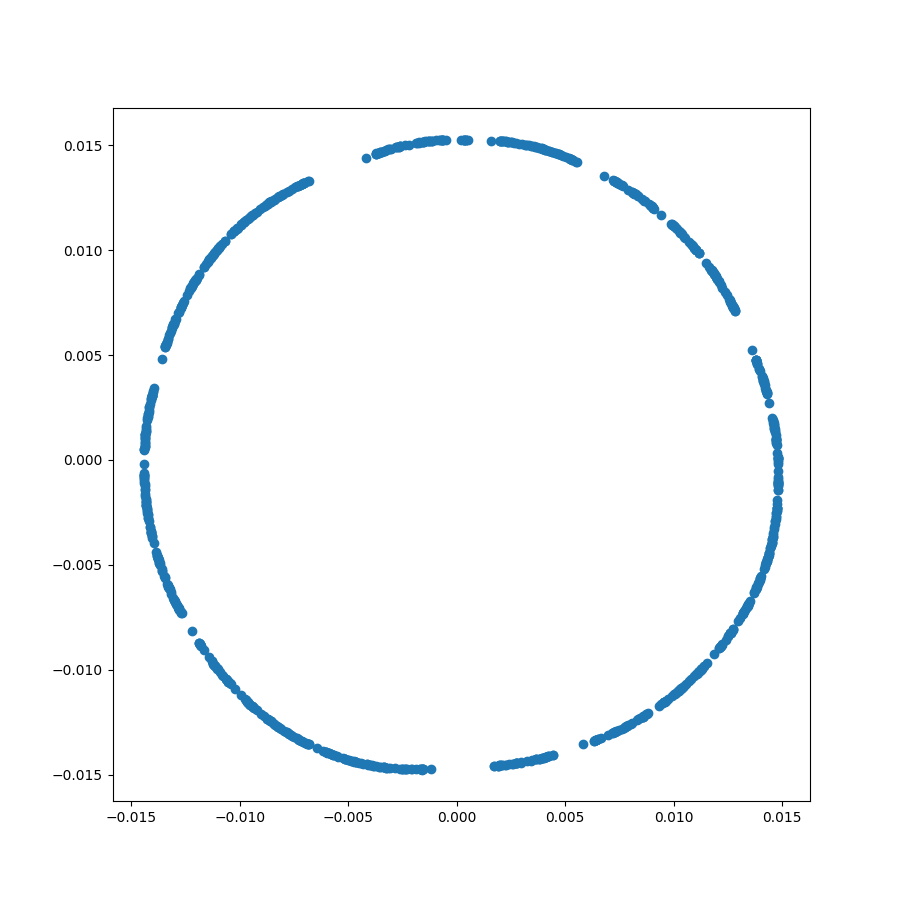
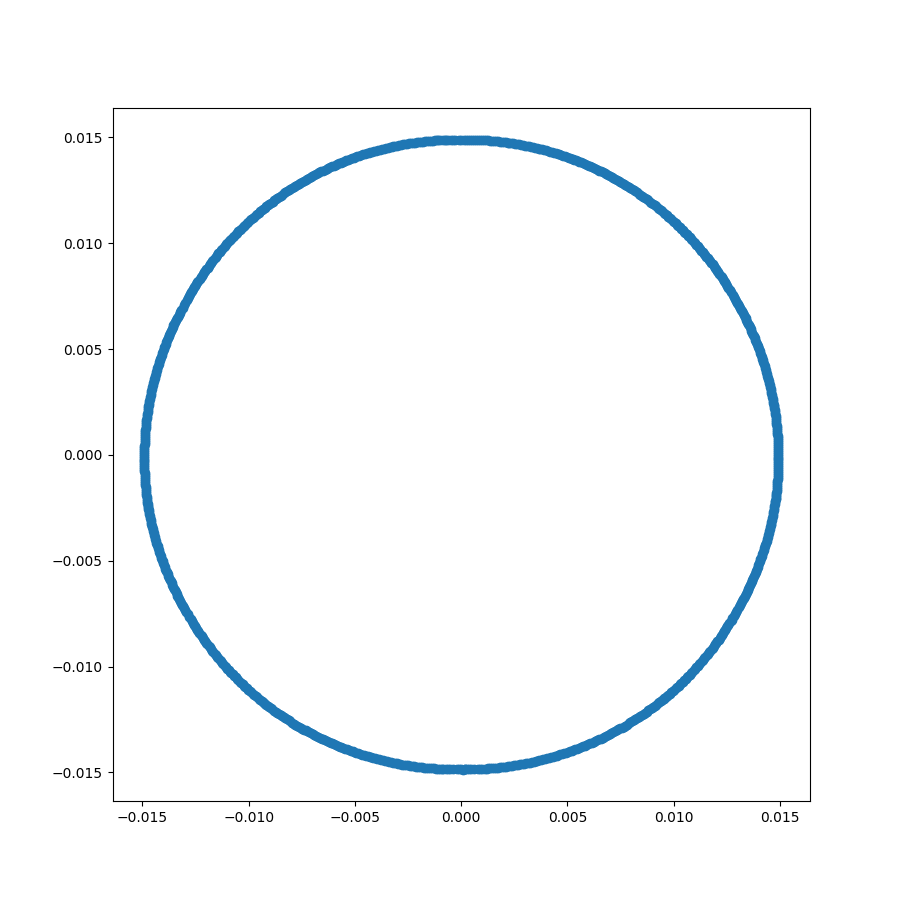
3d画像保存、点生成をlinspaceに、設計の見直し

diff --git a/src/main.py b/src/main.py
@@ -1,24 +1,19 @@
-import json
-
-from src.knot.trefoil import TrefoilSampler
 from src.eigenmap import eigenmap
-from src.savepic import savepic
-
+from src.savepic import savepic2D, savepic3D
+from src.config import KNOTS
 
 def main():
-    with open("config.json") as f:
-        config = json.load(f)
-    sample_size = config["sample_size"]
-    knots = config["knots"]
-
-    for knot in knots:
-        if knot == "trefoil":
-            sampler = TrefoilSampler(sample_size)
-        else:
-            raise ValueError(f"Unknown knot: {knot}")
+    for knot in KNOTS:
+        knot_kind = knot.knot_kind
+        sample_size = knot.sample_size
+        n_neighbors = knot.n_neighbors
+        elev = knot.elev
+        azim = knot.azim
+        sampler = knot.sampler_class(sample_size)
         x, y, z = sampler.sample()
-        mapped_xy = eigenmap(x, y, z)
-        savepic(mapped_xy[:, 0], mapped_xy[:, 1], f"png/mapped/{knot}.png")
+        savepic3D(x, y, z, f"png/original/{knot_kind}.png", elev, azim)
+        mapped_xy = eigenmap(x, y, z, n_neighbors)
+        savepic2D(mapped_xy[:, 0], mapped_xy[:, 1], f"png/mapped/{knot_kind}.png")
 
 if __name__ == "__main__":
     main()

diff --git a/src/config.py b/src/config.py
@@ -1,0 +1,24 @@
+from dataclasses import dataclass
+
+from src.knot.core import Sampler
+from src.knot.trefoil import TrefoilSampler
+
+@dataclass
+class BaseKnot:
+    knot_kind: str
+    sample_size: int
+    n_neighbors: int
+    elev: int
+    azim: int
+    sampler_class: Sampler
+
+TREFOIL = BaseKnot(
+    knot_kind="trefoil",
+    sample_size=1000,
+    n_neighbors=10,
+    elev=90,
+    azim=0,
+    sampler_class=TrefoilSampler
+)
+
+KNOTS = [TREFOIL]

diff --git a/src/savepic.py b/src/savepic.py
@@ -1,6 +1,13 @@
 import matplotlib.pyplot as plt
 
-def savepic(x, y, picname):
+def savepic3D(x, y, z, picname, elev, azim):
+    fig = plt.figure(figsize=(9, 9), facecolor="w")
+    ax = fig.add_subplot(111, projection="3d")
+    ax.scatter(x, y, z)
+    ax.view_init(elev = elev, azim = azim)
+    plt.savefig(picname)
+
+def savepic2D(x, y, picname):
     fig = plt.figure(figsize=(9, 9), facecolor="w")
     ax = fig.add_subplot(111)
     ax.scatter(x, y)

diff --git a/src/knot/trefoil.py b/src/knot/trefoil.py
@@ -7,7 +7,7 @@ class TrefoilSampler(Sampler):
         self.sample_size = sample_size
 
     def sample(self):
-        t = np.random.uniform(0, 2*np.pi, self.sample_size)
+        t = np.linspace(0, 2*np.pi, self.sample_size)
         x = np.sin(t) + 2*np.sin(2*t)
         y = np.cos(t) - 2*np.cos(2*t)
         z = -np.sin(3*t)

diff --git a/soudan.md b/soudan.md
@@ -1,0 +1,26 @@
+## 現状
+* legacyコードがある。
+  * trefoilサンプルができる。
+  * それにlaplacian eigenmapを適用して、画像で保存できる。
+
+## やっていくこと
+* 結び目を生成するpyだけの場所を作りたい。 => src/knot/trefoil.py
+* eigenmapを適用するだけの場所を作りたい。 => src/eigenmap
+* 画像保存を実行だけの場所を作りたい。 => src/savepic
+* 画像の保存場所 => png
+
+## 2024-03-07
+* ↑をやった（と思われる）
+* 本来は半径でグラフ構成をしたいが、直接のメソッドが無いので、代案として近い順にグラフ構成をしている。
+  * 挙動比較をしたい気持ちがある。
+
+## 2024-03-21
+* eigenmap前の3d画像をプロットしておきたい。
+  * elevとazimも指定する。
+* 点が偏るのが気になる。
+  * サンプル数の都合なのかeigenmapの挙動なのか。
+  * サンプル数をどこか分かりやすいところで設定できるようにすると実験できそう。
+  * 一様分布の乱数ではなく、そもそも等間隔の点列をとれば解消されるのでは？
+  * 等間隔に生やすで良さそう。
+* 別の結び目でも実験できるよう設計の見直し
+* trefoil以外の結び目をあと1,2個は見ておきたい。
